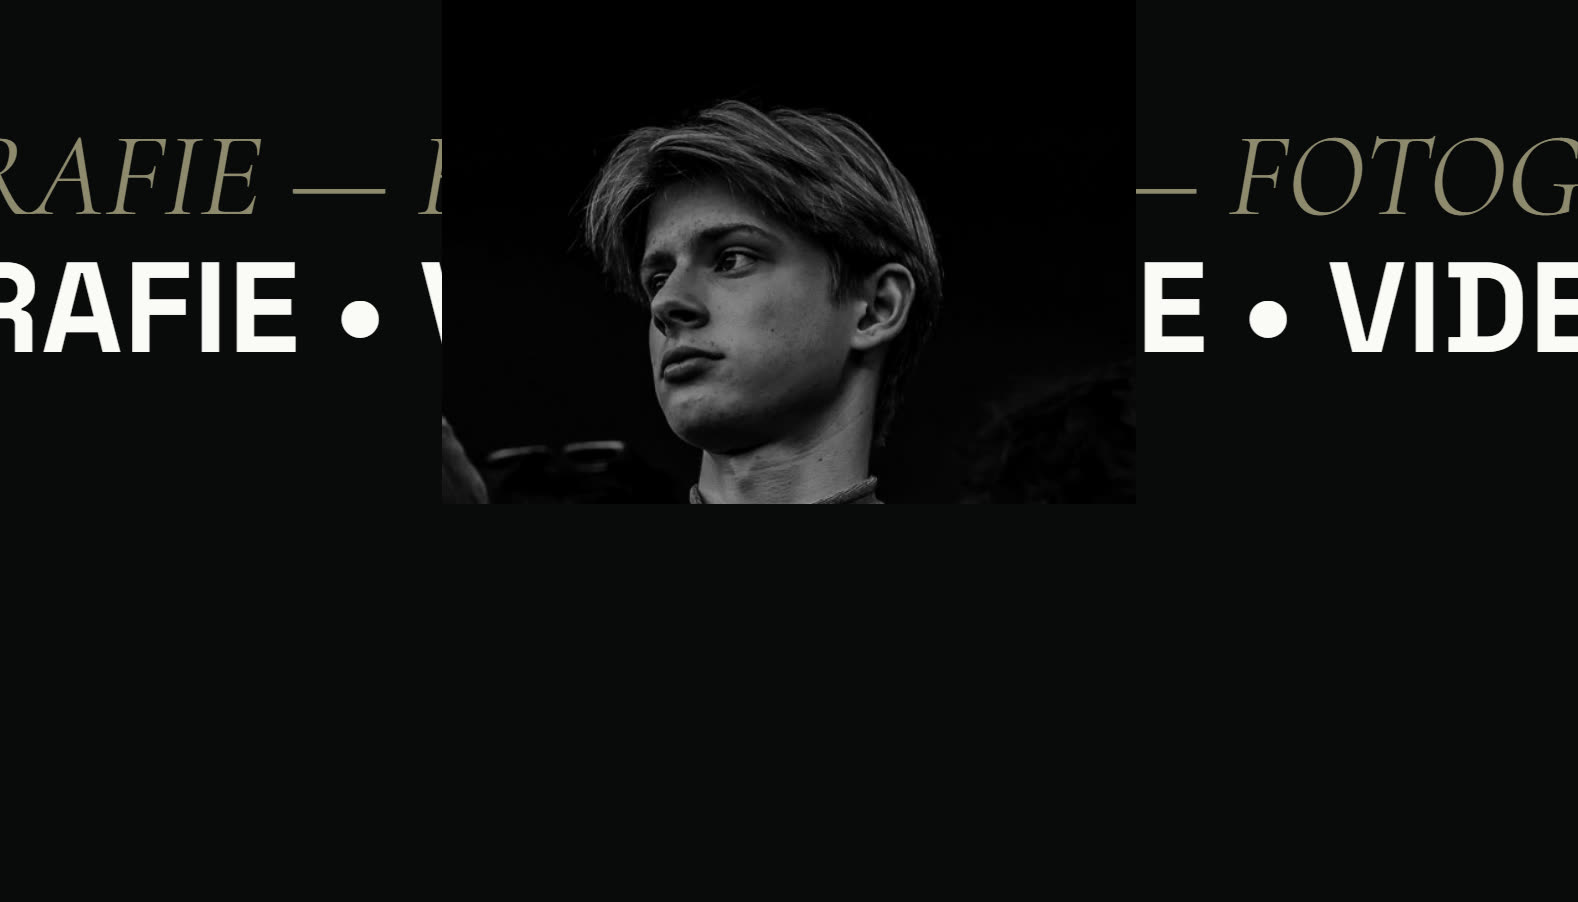
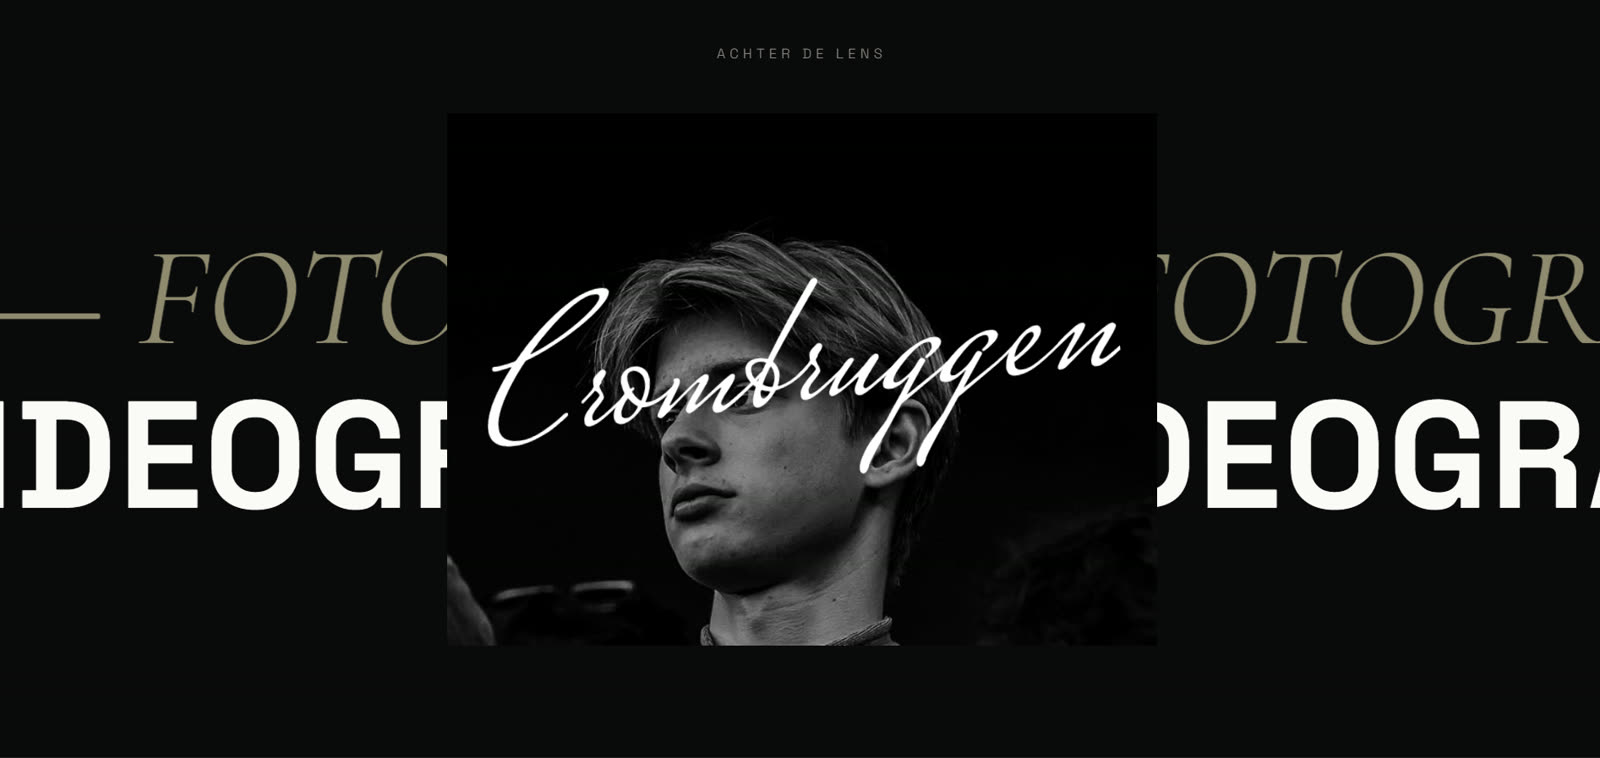
git commit -m "Update case-crombruggen.html, case.css, case.js, and images"

diff --git a/case-crombruggen.html b/case-crombruggen.html
@@ -30,7 +30,7 @@
 </section>
 
 <figure class="cs-shot cs-shot-lead" data-reveal>
-  <img src="images/cs-cb-hero.jpg" alt="Crombruggen website — scrolling FOTOGRAFIE and VIDEO marquee over a portrait">
+  <img src="images/cs-cb-hero.jpg" alt="Crombruggen website — scrolling fotografie and videografie marquee running behind a portrait card">
 </figure>
 
 <article class="cs-body">
@@ -40,13 +40,13 @@
   </section>
 
   <figure class="cs-shot" data-reveal>
-    <img src="images/cs-cb-intro.jpg" alt="Crombruggen website — handwritten logo revealed through an aperture-style intro">
-    <figcaption>The intro — the signature logo revealed through a camera-aperture opening.</figcaption>
+    <img src="images/cs-cb-intro.jpg" alt="Crombruggen website — handwritten logo centred on black with a scroll cue">
+    <figcaption>The opening frame — the signature logo, black space, and one quiet scroll cue.</figcaption>
   </figure>
 
   <section class="cs-block" data-reveal>
     <h2>The opening</h2>
-    <p>The site opens on near black, with the handwritten Crombruggen logo sitting inside a shape borrowed from a camera aperture. It holds for a beat before releasing you into the page. That single moment sets the tone for everything after it: patient, cinematic and clearly about image making.</p>
+    <p>The site opens on near black with nothing but the handwritten Crombruggen logo and a single scroll cue. It holds for a beat before releasing you into the page. That restraint sets the tone for everything after it: patient, cinematic and clearly about image making.</p>
   </section>
 
   <figure class="cs-shot" data-reveal>
@@ -60,7 +60,7 @@
   </section>
 
   <figure class="cs-shot" data-reveal>
-    <img src="images/cs-cb-fotografie.jpg" alt="Crombruggen website — numbered photography section on a light background">
+    <img src="images/cs-cb-fotografie.jpg" alt="Crombruggen website — numbered video productions section on a light background">
     <figcaption>The switch to light — numbered chapters give the services a clear rhythm.</figcaption>
   </figure>
 
@@ -68,10 +68,6 @@
     <h2>Dark to light</h2>
     <p>After the cinematic opening the page flips to a clean, light canvas for the services. Numbered chapters give the content an obvious rhythm, and the contrast makes the photography pop off the page. It also gives the visitor a moment to breathe before the next section arrives.</p>
   </section>
-
-  <figure class="cs-shot" data-reveal>
-    <img src="images/cs-cb-video.jpg" alt="Crombruggen website — video editing section with a landscape still">
-  </figure>
 
   <section class="cs-block" data-reveal>
     <h2>The result</h2>

diff --git a/case.css b/case.css
@@ -51,8 +51,8 @@ img{display:block;max-width:100%}
 
 /* image blocks */
 .cs-shot{margin:6vh auto;width:min(1200px,100%);padding:0 var(--pad)}
-.cs-shot img{width:100%;height:auto;aspect-ratio:16/10;object-fit:cover;border-radius:2px;
-  background:#e6e4df}
+/* screenshots keep their own proportions so nothing gets cropped */
+.cs-shot img{width:100%;height:auto;border-radius:2px;background:#e6e4df}
 .cs-shot-lead{margin-top:2vh}
 .cs-shot figcaption{margin-top:1rem;font-size:.8rem;letter-spacing:.06em;color:rgba(10,10,10,.45)}
 

diff --git a/case.js b/case.js
@@ -49,11 +49,6 @@
     });
   });
 
-  /* subtle parallax inside each image frame */
-  gsap.utils.toArray('.cs-shot img').forEach(img => {
-    gsap.fromTo(img, { yPercent: -6 }, {
-      yPercent: 6, ease: 'none',
-      scrollTrigger: { trigger: img, start: 'top bottom', end: 'bottom top', scrub: true }
-    });
-  });
+  /* note: no image parallax — the shots are shown uncropped, so shifting them
+     inside the frame would leave gaps. The reveal above carries the motion. */
 })();
